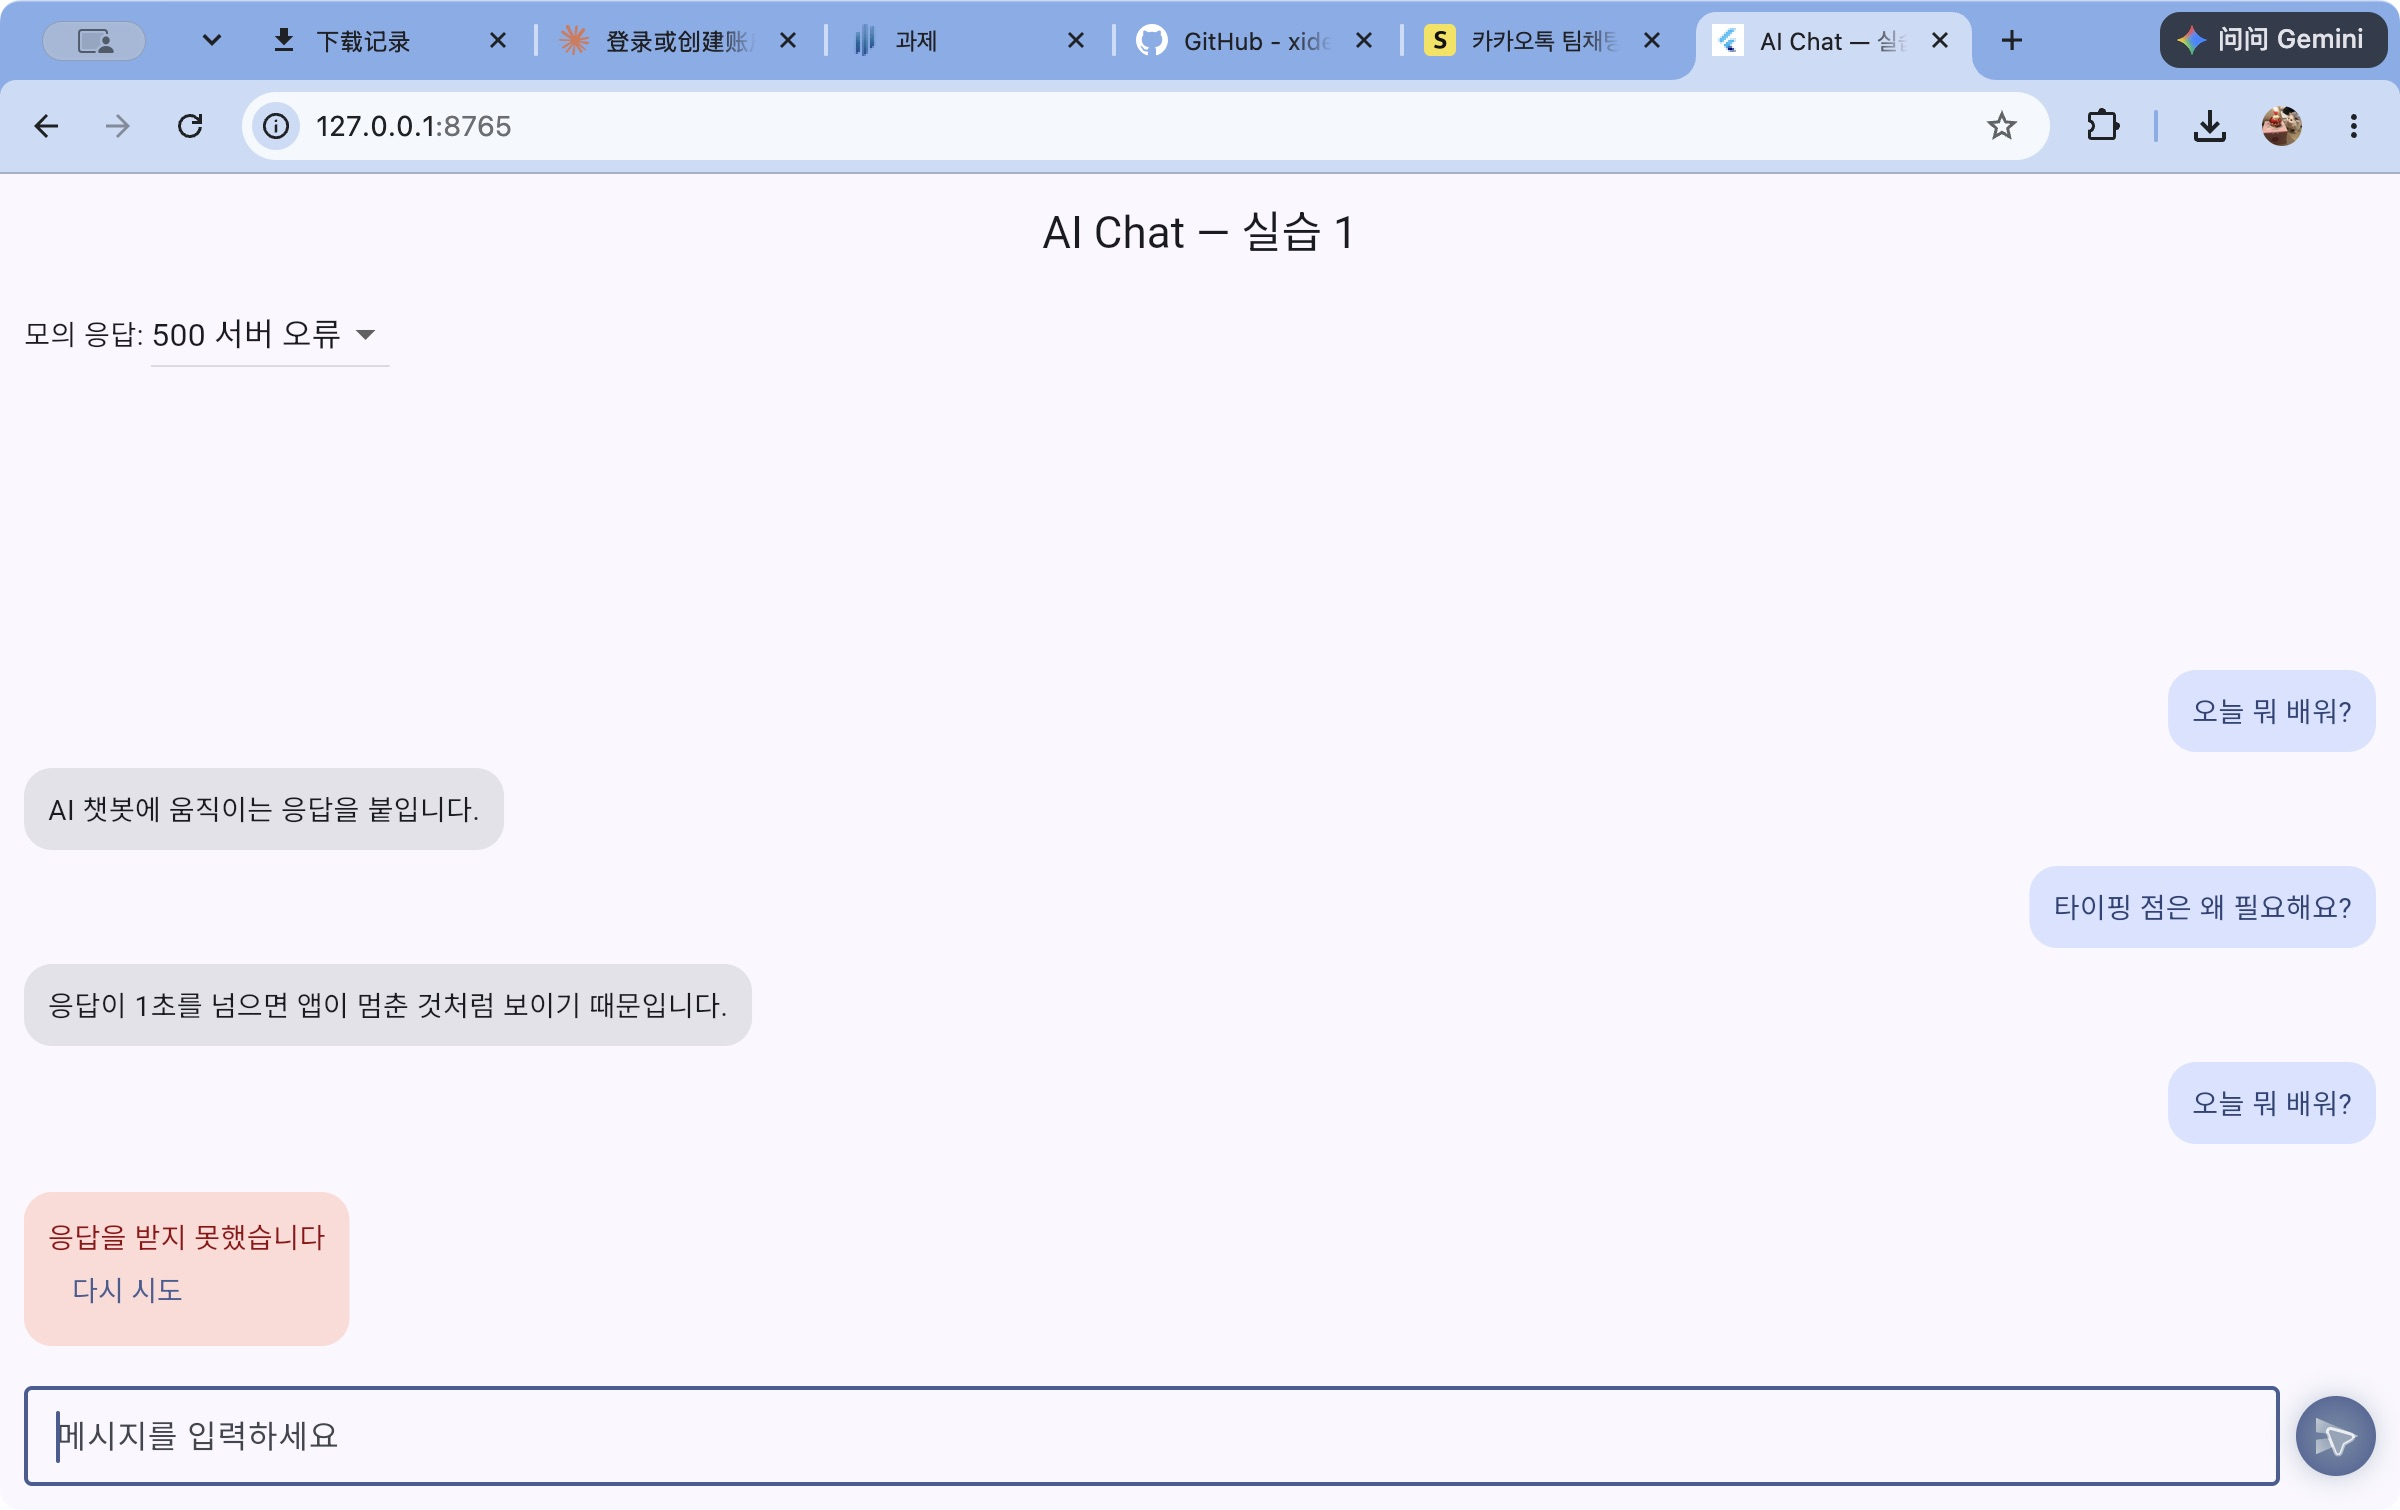
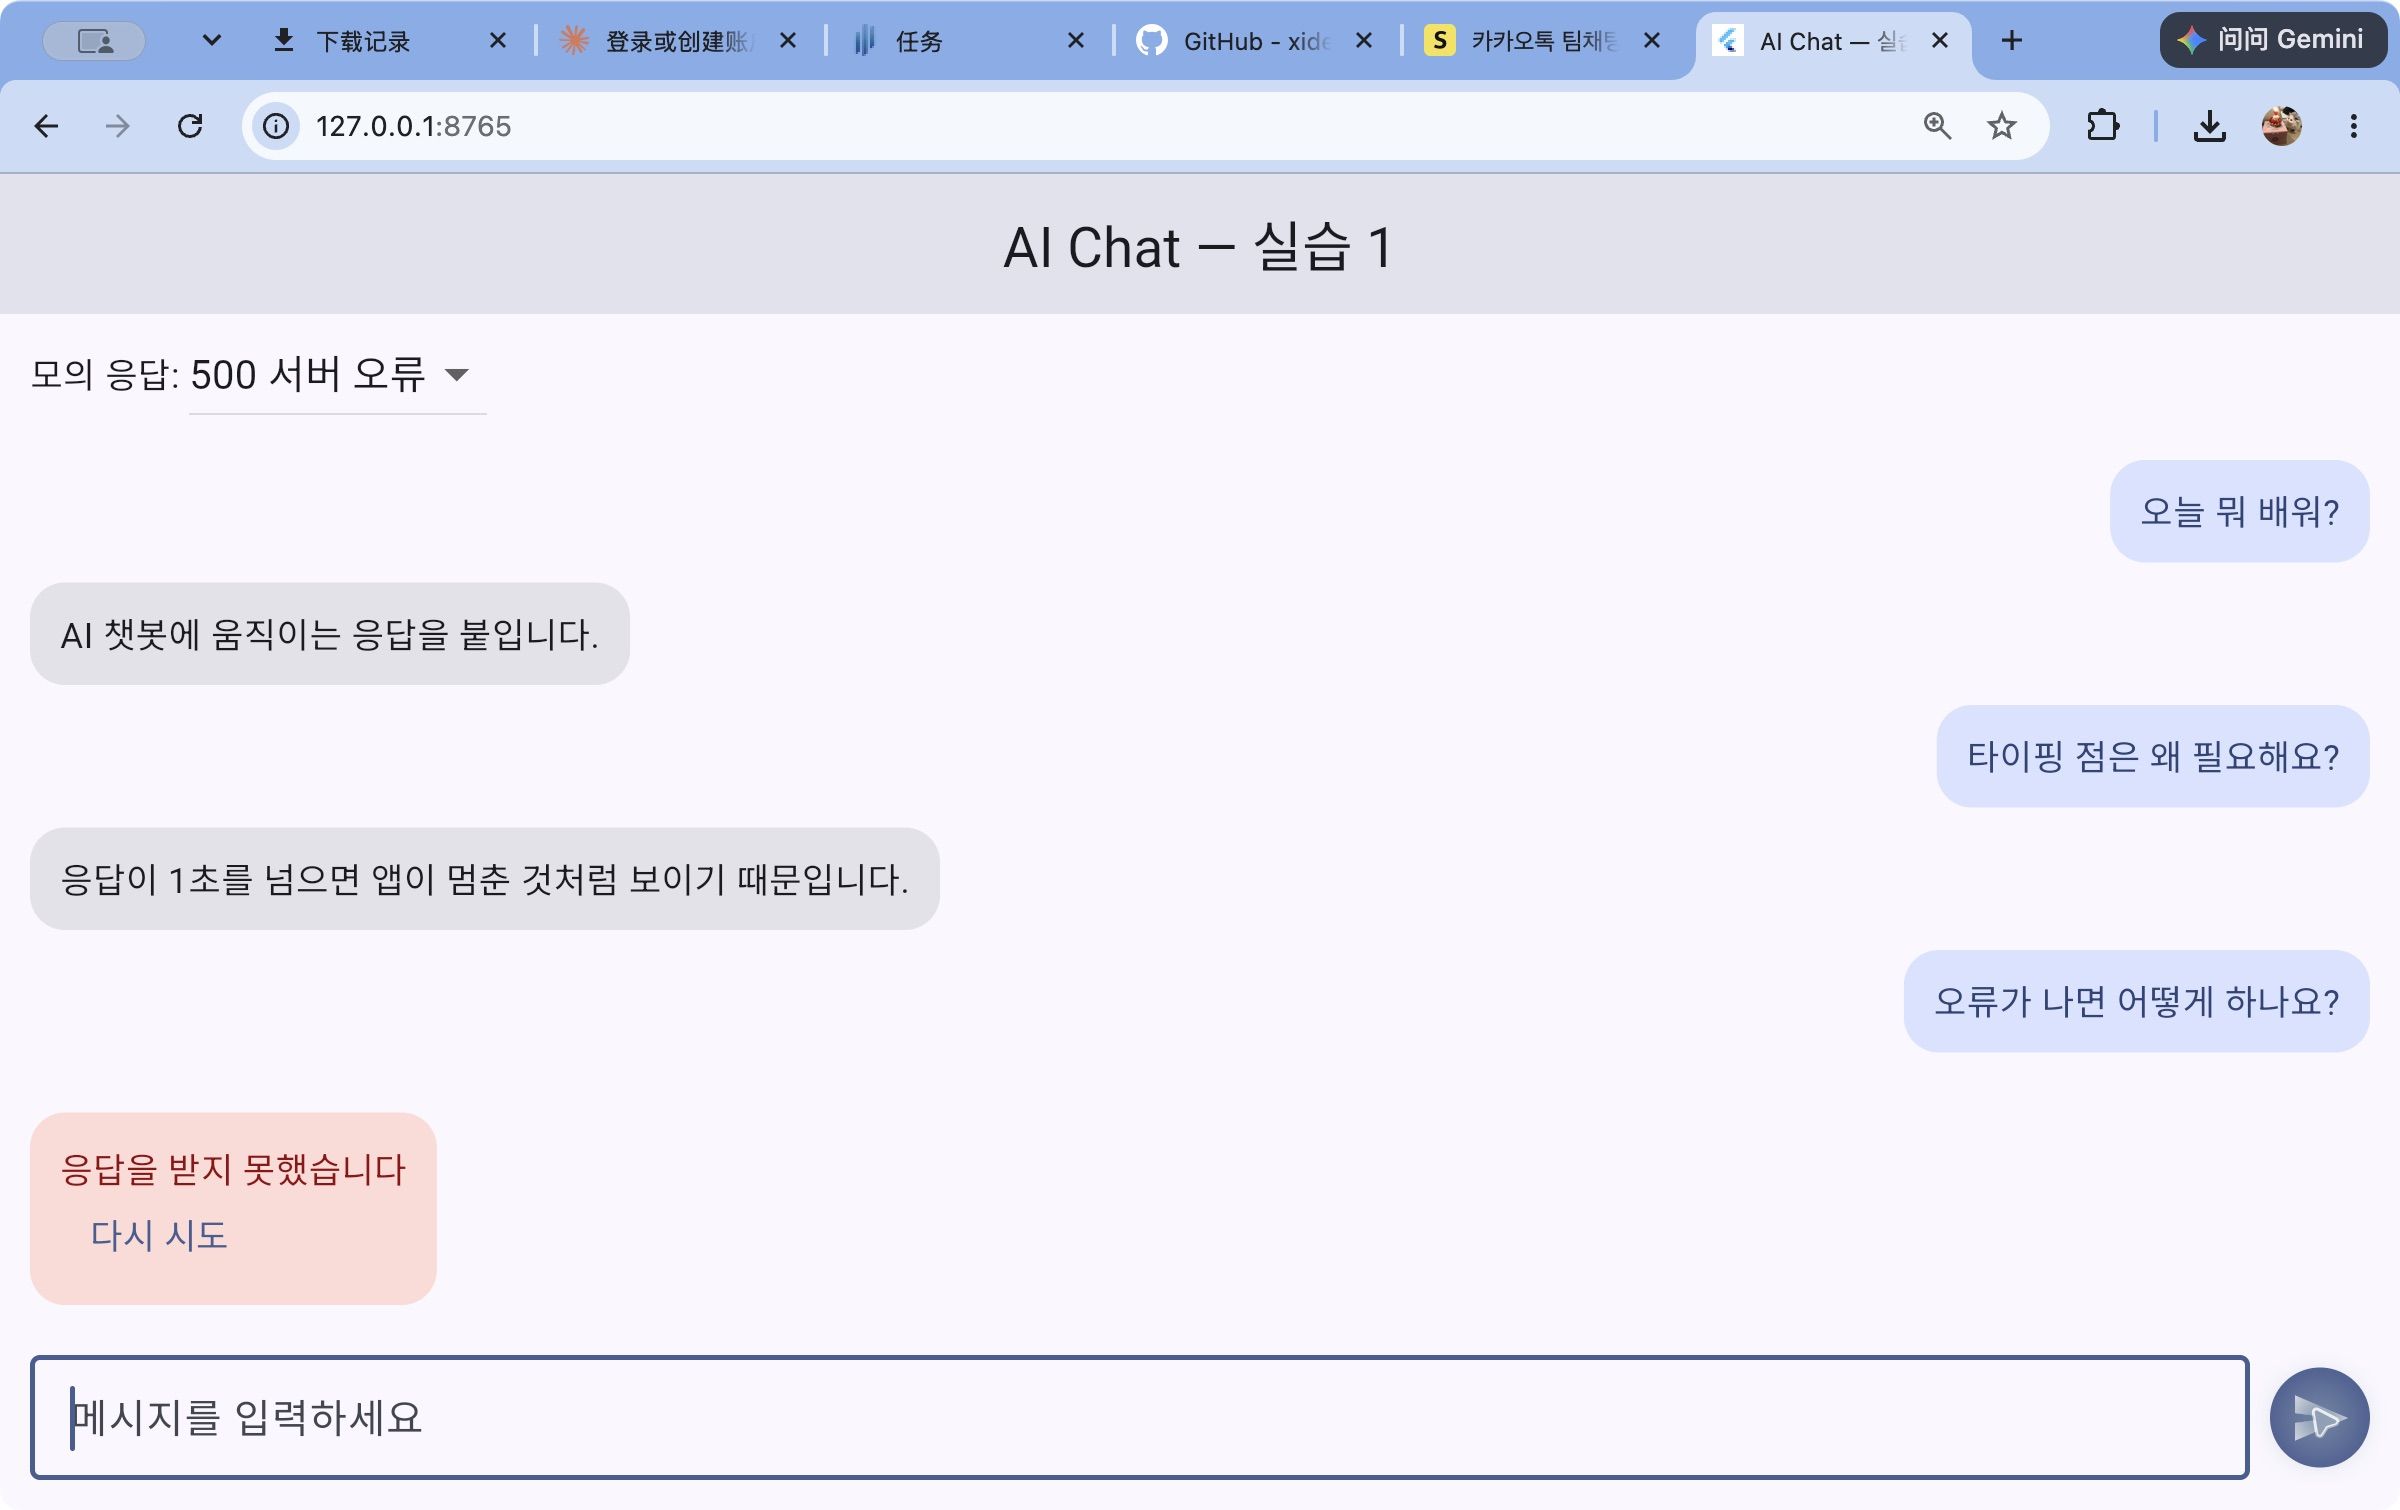
docs: add clearer chat and retry screenshots

diff --git a/README.md b/README.md
@@ -70,12 +70,28 @@ test/widget_test.dart  ← 앱이 뜨는지 확인하는 스모크 테스트
 
 검사: `flutter analyze`, `flutter test` (7개 테스트).
 
-### 실행 화면
+### 실행 화면 (실제 Chrome 실행 캡처)
 
-500 오류 후 오류 말풍선과 재시도 버튼:
+글자와 버튼을 읽기 쉽도록 브라우저를 125%로 확대해 캡처했습니다.
+각 이미지를 클릭하면 원본 크기로 볼 수 있습니다. 아래 응답은 실제 AI API가 아닌 모의 응답입니다.
 
-![오류와 재시도](docs/error.png)
+#### 1. 채팅 UI
 
-모의 응답을 성공으로 바꾼 뒤 마지막 메시지를 다시 요청한 결과:
+사용자 메시지는 오른쪽, 응답은 왼쪽에 표시됩니다. 화면 아래에는 입력창과 전송 버튼이 있습니다.
 
-![재시도 성공](docs/retry-success.png)
+[![채팅 UI: 좌우 말풍선과 하단 입력창](docs/chat-ui.png)](docs/chat-ui.png)
+
+#### 2. 500 오류와 재시도 버튼
+
+상단에서 `500 서버 오류`를 선택하고 `오류가 나면 어떻게 하나요?`를 전송했습니다.
+오류 안내와 `다시 시도` 버튼이 남아 있어 다시 요청할 수 있습니다.
+
+[![500 오류: 오류 안내와 다시 시도 버튼](docs/error.png)](docs/error.png)
+
+#### 3. 재시도 성공
+
+상단을 `성공`으로 바꾸고 `다시 시도`를 눌렀습니다.
+오류 안내가 사라지고 마지막 메시지의 모의 응답이 표시됩니다.
+같은 사용자 메시지가 두 번 추가되지 않는 것도 확인할 수 있습니다.
+
+[![재시도 성공: 마지막 메시지에 대한 모의 응답](docs/retry-success.png)](docs/retry-success.png)
